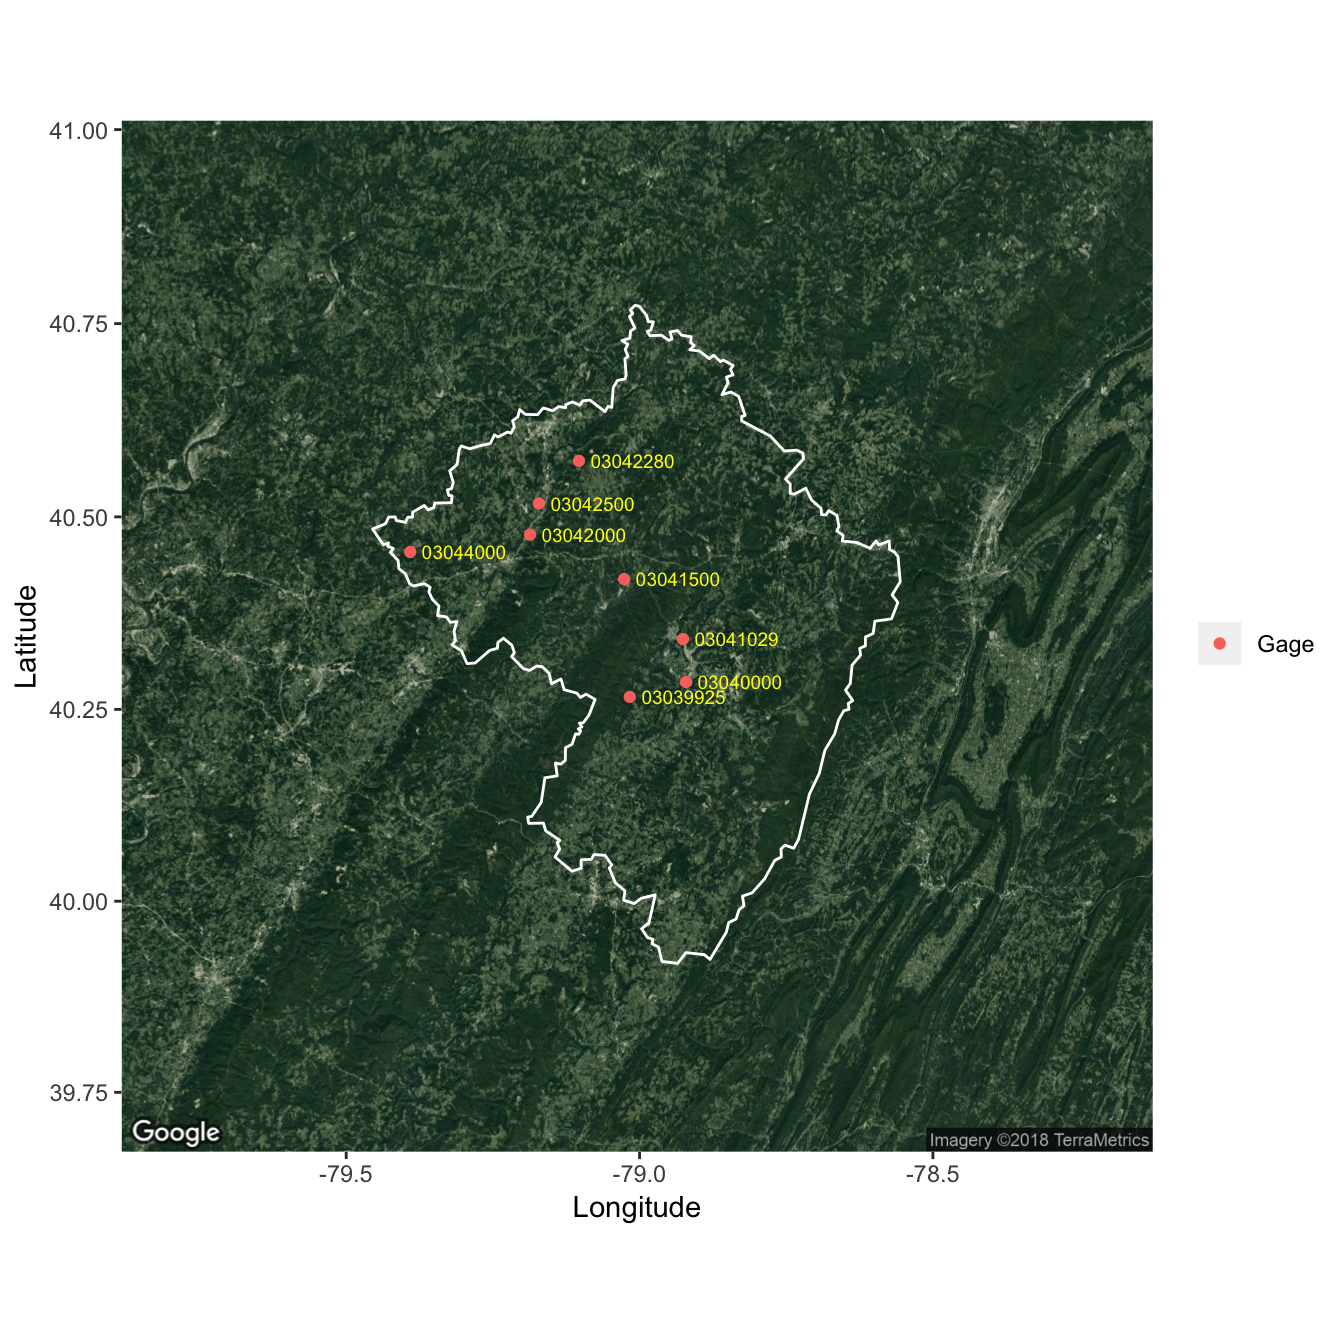
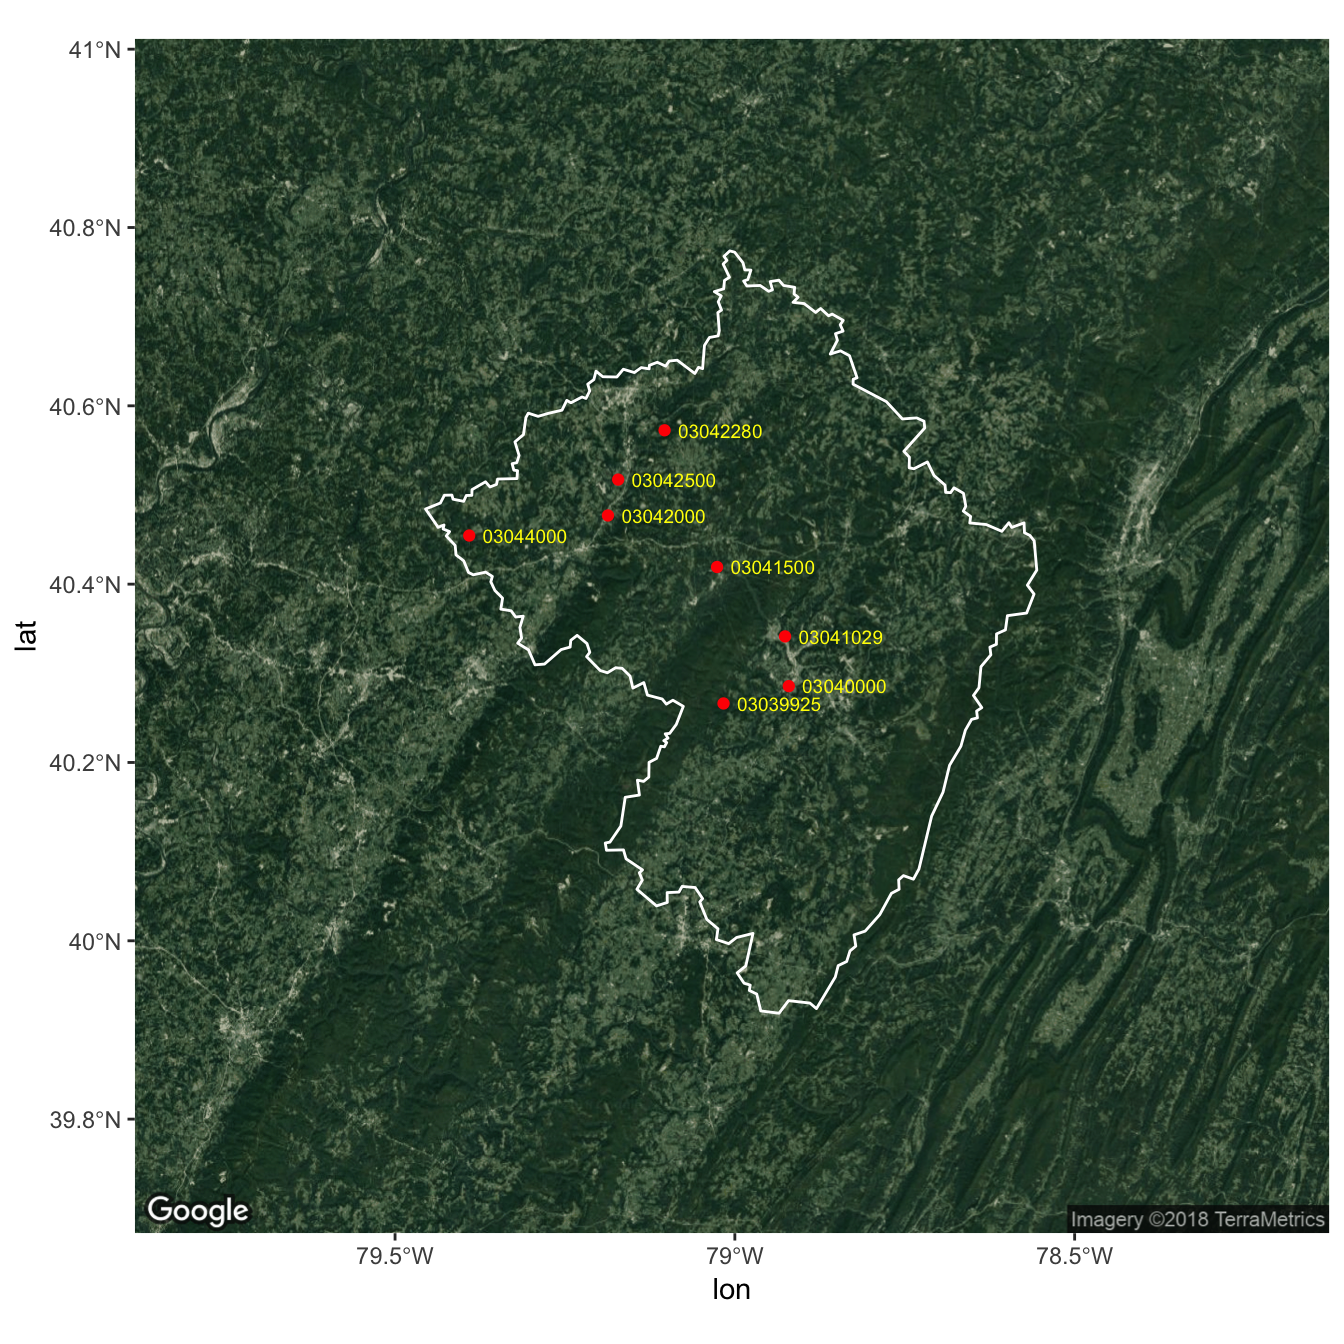
sf changes done?

diff --git a/content/mapping_in_r.md b/content/mapping_in_r.md
@@ -34,12 +34,12 @@ There are many different R packages for dealing with spatial data. The main dist
 Setting up
 ==========
 
-We'll start with a polygon example. First, let's download an example shapefile (a polygon) of a HUC8 from western Pennsylania, using the `sbtools` package to access Sciencebase. Then we'll retrieve gages with discharge from this watershed using the `dataRetrieval` package. The `readOGR` function from `rgdal` reads shapefiles into R. `rgdal` accesses the [Geospatial Data Abstraction Library](http://www.gdal.org/) (GDAL) system library.
+First, let's download an example shapefile (a polygon) of a HUC8 from western Pennsylania, using the `sbtools` package to access Sciencebase. Then we'll retrieve gages with discharge from this watershed using the `dataRetrieval` package. Both of these packages are covered in our [USGS Packages curriculum](https://owi.usgs.gov/R/training-curriculum/usgs-packages/). The `readOGR` function from `rgdal` reads shapefiles into R. `rgdal` accesses the [Geospatial Data Abstraction Library](http://www.gdal.org/) (GDAL) system library.
 
 ``` r
 library(sbtools)
 library(dataRetrieval)
-library(rgdal)
+library(sf)
 
 item_file_download(sb_id = "5a83025ce4b00f54eb32956b", 
                    names = "huc8_05010007_example.zip", 
@@ -51,21 +51,22 @@ item_file_download(sb_id = "5a83025ce4b00f54eb32956b",
 
 ``` r
 unzip('huc8_05010007_example.zip', overwrite = TRUE)
-huc_poly <- readOGR('huc8_05010007_example')
+huc_poly <- st_read('huc8_05010007_example')
 ```
 
-    ## OGR data source with driver: ESRI Shapefile 
-    ## Source: "/Users/wwatkins/Documents/R/owi-blog/content/huc8_05010007_example", layer: "wbdhu8_alb_simp"
-    ## with 1 features
-    ## It has 9 fields
+    ## Reading layer `wbdhu8_alb_simp' from data source `/Users/wwatkins/Documents/R/owi-blog/content/huc8_05010007_example' using driver `ESRI Shapefile'
+    ## Simple feature collection with 1 feature and 9 fields
+    ## geometry type:  POLYGON
+    ## dimension:      XY
+    ## bbox:           xmin: -79.45512 ymin: 39.91875 xmax: -78.55573 ymax: 40.77377
+    ## epsg (SRID):    4326
+    ## proj4string:    +proj=longlat +datum=WGS84 +no_defs
 
 ``` r
 class(huc_poly)
 ```
 
-    ## [1] "SpatialPolygonsDataFrame"
-    ## attr(,"package")
-    ## [1] "sp"
+    ## [1] "sf"         "data.frame"
 
 ``` r
 huc_gages <- whatNWISdata(huc = "05010007", parameterCd = "00060", service="uv")
@@ -110,13 +111,13 @@ print(huc_gages)
     ## 1245    <NA> 122490       <NA>           wat        <NA> 1645423         0
     ##      begin_date   end_date count_nu
     ## 197  1987-10-03 1998-09-26     4011
-    ## 591  1991-10-01 2018-07-13     9782
-    ## 621  2001-12-13 2018-07-13     6056
-    ## 731  1991-10-01 2018-07-13     9782
-    ## 824  1991-10-15 2018-07-13     9768
-    ## 964  1991-10-01 2018-07-13     9782
-    ## 1058 1986-10-01 2018-07-13    11608
-    ## 1245 2010-10-01 2018-07-13     2842
+    ## 591  1991-10-01 2018-07-17     9786
+    ## 621  2001-12-13 2018-07-18     6061
+    ## 731  1991-10-01 2018-07-18     9787
+    ## 824  1991-10-15 2018-07-18     9773
+    ## 964  1991-10-01 2018-07-18     9787
+    ## 1058 1986-10-01 2018-07-18    11613
+    ## 1245 2010-10-01 2018-07-18     2847
 
 The `huc_poly` object is a new type of object that we haven't seen --- a `SpatialPolygonsDataFrame`. It has several different parts, or "slots". You can click on the object in your Rstudio environment window to see what is inside, or run `slotNames(t)`. Slots can be referenced directly using `@`, e.g. `huc_poly@data`. The `data` slot is like a regular R data frame, and contains information about the polygon. You can look at its contents in the nice Rstudio data frame format using `View(huc_poly@data)`. Since this shapefile only contains a single polygon, it only has one row . The `polygons` slot contains the actual vertices of the polygon. If there were multiple polygons in this object, the `plotOrder` field would determine the order in which they are drawn. The `bbox` field gives the bounding box of all polygons in the object, and `proj4.string` gives the projection. These fields can be used and modified to change or reference specific things about the object. In this examples, we will use the `bbox` slot in order to request a map zoomed to this HUC.
 
@@ -131,8 +132,9 @@ For the raster map, we will use the `ggmap` package to create a political map an
 library(ggmap)
 
 #setting zoom to 9 gives us a bit of padding around the bounding box
-basemap_streets <- get_map(maptype = "roadmap", location = c(huc_poly@bbox), zoom = 9)
-basemap_satellite <- get_map(maptype = "satellite", location = c(huc_poly@bbox), zoom = 9)
+bbox <- setNames(st_bbox(huc_poly), c("left", "bottom", "right", "top"))
+basemap_streets <- get_map(maptype = "roadmap", location = bbox, zoom = 9)
+basemap_satellite <- get_map(maptype = "satellite", location = bbox, zoom = 9)
 street_map <- ggmap(basemap_streets) 
 satellite_map <- ggmap(basemap_satellite)
 print(street_map)
@@ -149,24 +151,25 @@ print(satellite_map)
 Now we can start adding to our maps. To use a spatial polygon with `ggmap`, we first need to convert it to a standard data frame. Fortunately, the `tidy` function in the `broom` package does this for us. Also similar to `ggplot`, functions like `geom_polygon` and `geom_point` add to your base map.
 
 ``` r
-tidy_huc_poly <- broom::tidy(huc_poly)
-satellite_map + geom_polygon(data = tidy_huc_poly, aes(long, lat, group = group),
-                             color = "white", fill = NA) + 
-  geom_point(data = huc_gages, aes(x = dec_long_va, y = dec_lat_va, color = "Gage")) + 
-  labs(color = NULL, x = "Longitude", y = "Latitude") + 
-  geom_text(data = huc_gages, aes(label=site_no, x = dec_long_va, y = dec_lat_va), 
-                                 hjust = 0, size=2.5, nudge_x = 0.02, col = "yellow")
+huc_gages_sf <- st_as_sf(huc_gages, coords = c("dec_long_va", "dec_lat_va"), crs = st_crs(huc_poly),
+                      remove = FALSE)
+satellite_map + geom_sf(data = huc_poly,
+                        inherit.aes = FALSE,
+                        color = "white", fill = NA) +
+  geom_sf(data = huc_gages_sf, inherit.aes = FALSE, color = "red") +
+  geom_text(data = huc_gages_sf, aes(label = site_no, x = dec_long_va, y = dec_lat_va),
+             hjust = 0, size=2.5, nudge_x = 0.02, col = "yellow")
 ```
 
 <img src='/static/mapping-in-r/raster_map_add-1.png'/ title='satellite map with HUC and gages' alt='base maps with HUC and gages' class=''/>
 
 ``` r
-street_map + geom_polygon(data = tidy_huc_poly, aes(long, lat, group = group),
-                             color = "black", fill = NA) + 
-  geom_point(data = huc_gages, aes(x = dec_long_va, y = dec_lat_va, color = "Gage")) + 
-  labs(color = NULL, x = "Longitude", y ="Latitude") + 
-  geom_text(data = huc_gages, aes(label=site_no, x = dec_long_va, y = dec_lat_va), 
-                                 hjust = 0, size=2.5, nudge_x = 0.02)
+street_map + geom_sf(data = huc_poly,
+                        inherit.aes = FALSE,
+                        color = "black", fill = NA) +
+  geom_sf(data = huc_gages_sf, inherit.aes = FALSE, color = "red") +
+  geom_text(data = huc_gages_sf, aes(label = site_no, x = dec_long_va, y = dec_lat_va),
+             hjust = 0, size=2.5, nudge_x = 0.02, col = "yellow")
 ```
 
 <img src='/static/mapping-in-r/raster_map_add-2.png'/ title='street map with HUC and gages' alt='base maps with HUC and gages' class=''/>
@@ -181,8 +184,8 @@ library(maps)
 map(database = 'state', regions = 'Pennsylvania', col = "tan", fill = TRUE, border = NA)
 #this draws all PA counties since the regions argument uses partial matching
 map(database = 'county', regions = 'Pennsylvania', col = "white", fill = FALSE, add = TRUE)
-plot(huc_poly, col = NA, add = TRUE)
-points(x = huc_gages$dec_long_va, y = huc_gages$dec_lat_va, col = "red", pch = 19, cex = 0.7)
+plot(st_geometry(huc_poly), col = NA, add = TRUE)
+plot(st_geometry(huc_gages_sf), add = TRUE, col = "red", pch = 19, cex = 0.7)
 legend("bottomright", legend = c("Gage", "Subbasin boundary"), pch = c(19,NA), lty = c(NA, 1),
        col = c("red", "black"), title = "Legend")
 title("Conemaugh Subbasin")
@@ -193,10 +196,10 @@ title("Conemaugh Subbasin")
 Similarly, we could create a map zoomed in to the HUC polygon. We will start by plotting the HUC first, so that it sets the plot's boundaries, although if we wanted something else "on the bottom" we could specify a bounding box to the `map` function (you could access the coordinates from the shapefile with `huc_poly@bbox`.
 
 ``` r
-  plot(huc_poly, col = "dodgerblue", border = NA)
+  plot(st_geometry(huc_poly), col = "dodgerblue", border = NA)
   map(database = 'county', regions = 'Pennsylvania', add = TRUE, col = "lightgray")
   box()
-  points(x = huc_gages$dec_long_va, y = huc_gages$dec_lat_va, col = "red", pch = 19, cex = 0.7)
+ plot(st_geometry(huc_gages_sf), add = TRUE, col = "red", pch = 19, cex = 0.7)
   legend("bottomleft", legend = c("Gage", "Conemaugh subbasin"), pch = c(19,NA), lty = c(NA, 1),
        col = c("red", "dodgerblue"), title = "Legend", lwd = c(1,15), bg = "wheat")
   text(x = huc_gages$dec_long_va, y = huc_gages$dec_lat_va, labels = huc_gages$site_no,
@@ -210,8 +213,8 @@ Other packages and examples
 
 Like plotting in R, there are endless intricacies to making maps, and we are only really scratching the surface here. Some other packages that you may find useful for certain applications include:
 
--   [sp](https://cran.r-project.org/web/packages/sp/index.html): The workhorse package for handling spatial data
--   [sf](https://cran.r-project.org/web/packages/sf/index.html): A newer package by many of the same authors as `sp` that simplifies spatial data manipulation
 -   [raster](https://cran.r-project.org/web/packages/raster/index.html): For working with your own raster data
+-   [sp](https://cran.r-project.org/web/packages/sp/index.html): The original workhorse package for handling spatial data. `sf` is largely replacing it, but you will see it a lot when Googling things.
+-   [geoknife](https://cran.r-project.org/web/packages/geoknife/index.html): A USGS package that utilizes the \[Geo Data Portal\] for processing gridded data. Covered in the [packages curriculum](https://owi.usgs.gov/R/training-curriculum/usgs-packages/).
 
 Also, check out our [additional topics in R](https://owi.usgs.gov/R/training-curriculum/intro-curriculum/Additional/) page for links to some other tutorials.
